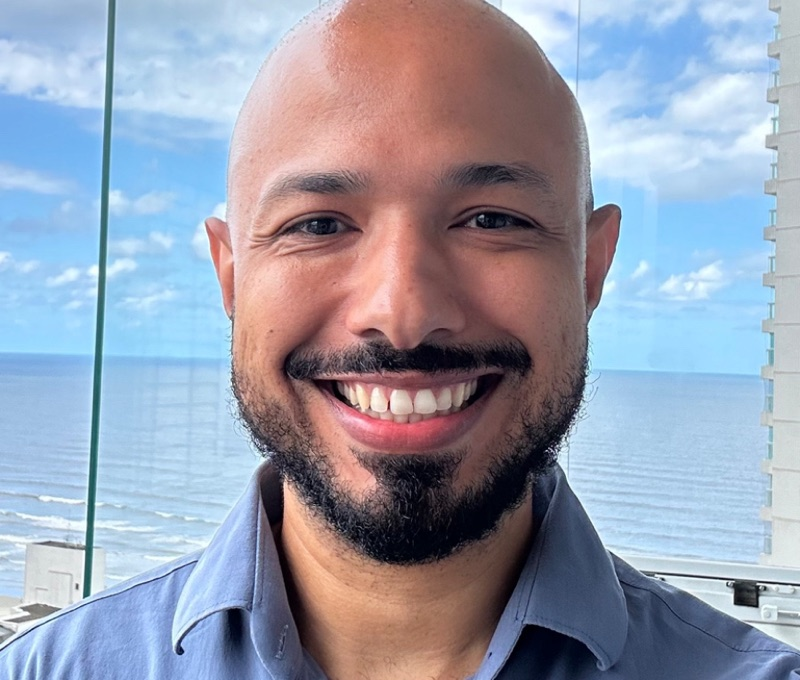
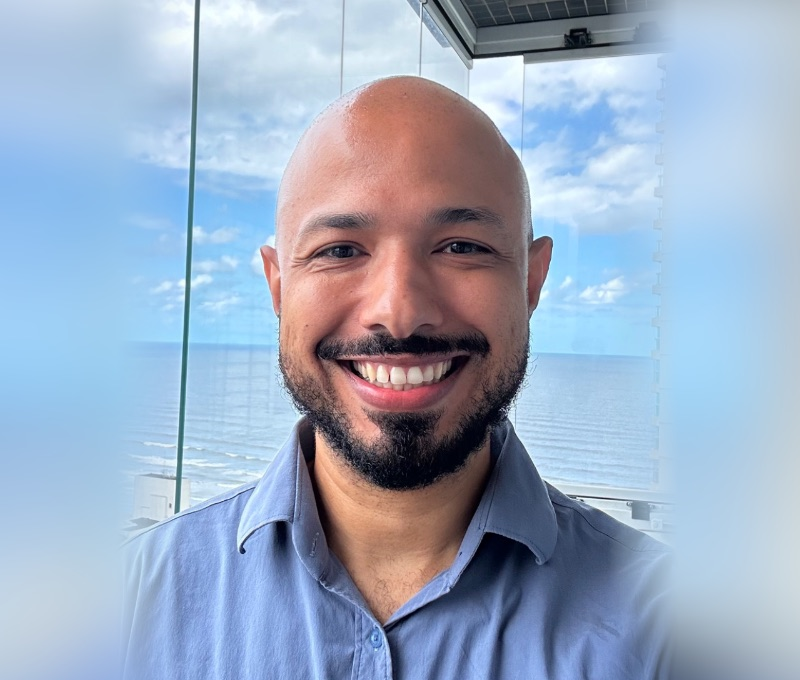
Foto do Felipe com enquadramento igual aos outros cards
- crop_faces.swift ganha a opção --estender: em fotos apertadas, completa as
  bordas com a própria foto desfocada, com degradê na junção
- Felipe recortado com o rosto no tamanho padrão

diff --git a/tools/crop_faces.swift b/tools/crop_faces.swift
@@ -1,6 +1,10 @@
 // Recorta fotos de professores com enquadramento padronizado no rosto.
 //
-//   swift tools/crop_faces.swift <pasta-de-origem> <pasta-de-destino>
+//   swift tools/crop_faces.swift <pasta-de-origem> <pasta-de-destino> [--estender] [--rosto=0.42]
+//
+// --estender: quando a foto é apertada demais para o enquadramento padrão, em vez
+// de aumentar o rosto, completa as bordas com uma versão desfocada da própria foto.
+// --rosto=N: altura do rosto em relação ao recorte (padrão 0.42).
 //
 // Para cada imagem: detecta o maior rosto (framework Vision do macOS), recorta
 // na proporção do card (4:3,4) com o rosto centralizado e ocupando FACE_RATIO
@@ -15,12 +19,15 @@ import UniformTypeIdentifiers
 import Vision
 
 let OUT_W = 800.0, OUT_H = 680.0          // mesma proporção do .teacher__photo (4 / 3.4)
-let FACE_RATIO = 0.42                       // altura do rosto em relação à altura do recorte
+var FACE_RATIO = 0.42                       // altura do rosto em relação à altura do recorte
 let FACE_CENTER_Y = 0.46                    // centro do rosto a 46% do topo (sobra espaço acima da cabeça)
 let QUALITY = 0.82
 
-let args = CommandLine.arguments
-guard args.count == 3 else { print("uso: swift crop_faces.swift <origem> <destino>"); exit(1) }
+let allArgs = CommandLine.arguments
+let EXTEND = allArgs.contains("--estender")
+if let r = allArgs.first(where: { $0.hasPrefix("--rosto=") }), let v = Double(r.dropFirst(8)) { FACE_RATIO = v }
+let args = allArgs.filter { !$0.hasPrefix("--") }
+guard args.count == 3 else { print("uso: swift crop_faces.swift <origem> <destino> [--estender] [--rosto=0.42]"); exit(1) }
 let src = URL(fileURLWithPath: args[1]), dst = URL(fileURLWithPath: args[2])
 try? FileManager.default.createDirectory(at: dst, withIntermediateDirectories: true)
 
@@ -56,28 +63,72 @@ for file in files {
 
     var ch = fh / FACE_RATIO
     var cw = ch * OUT_W / OUT_H
-    // Se o recorte ideal não cabe na foto, reduz (o rosto fica um pouco maior).
-    let scale = min(1, W / cw, H / ch)
-    cw *= scale; ch *= scale
     var x = fcx - cw / 2
     var y = fcy - ch * FACE_CENTER_Y
-    x = max(0, min(x, W - cw))
-    y = max(0, min(y, H - ch))
+    var scale = 1.0
+    if !EXTEND {
+        // Se o recorte ideal não cabe na foto, reduz (o rosto fica um pouco maior).
+        scale = min(1, W / cw, H / ch)
+        cw *= scale; ch *= scale
+        x = fcx - cw / 2
+        y = fcy - ch * FACE_CENTER_Y
+        x = max(0, min(x, W - cw))
+        y = max(0, min(y, H - ch))
+    } else {
+        // Mantém o rosto no tamanho padrão; só encosta nas bordas onde a foto permite.
+        if cw <= W { x = max(0, min(x, W - cw)) }
+        if ch <= H { y = max(0, min(y, H - ch)) }
+    }
 
-    guard let cropped = img.cropping(to: CGRect(x: x, y: y, width: cw, height: ch)) else { continue }
     let ctx = CGContext(data: nil, width: Int(OUT_W), height: Int(OUT_H), bitsPerComponent: 8, bytesPerRow: 0,
                         space: CGColorSpace(name: CGColorSpace.sRGB)!, bitmapInfo: CGImageAlphaInfo.noneSkipLast.rawValue)!
     ctx.interpolationQuality = .high
     ctx.setFillColor(CGColor(red: 1, green: 1, blue: 1, alpha: 1))   // fundo branco para PNG transparente
     ctx.fill(CGRect(x: 0, y: 0, width: OUT_W, height: OUT_H))
-    ctx.draw(cropped, in: CGRect(x: 0, y: 0, width: OUT_W, height: OUT_H))
+    let k = OUT_H / ch                                                // escala foto -> saída
+    let extended = EXTEND && (x < 0 || y < 0 || x + cw > W || y + ch > H)
+    // Foto original posicionada na saída (origem embaixo à esquerda, como no CGContext).
+    let photoRect = CGRect(x: -x * k, y: OUT_H - (-y * k + H * k), width: W * k, height: H * k)
+    if extended {
+        let canvas = CGRect(x: 0, y: 0, width: OUT_W, height: OUT_H)
+        let src = CIImage(cgImage: img)
+        // Fundo: a própria foto ampliada para cobrir o card e bem desfocada.
+        let fill = max(OUT_W / W, OUT_H / H)
+        let background = src.clampedToExtent().applyingGaussianBlur(sigma: 40)
+            .cropped(to: src.extent)
+            .transformed(by: CGAffineTransform(scaleX: fill, y: fill))
+            .transformed(by: CGAffineTransform(translationX: (OUT_W - W * fill) / 2, y: (OUT_H - H * fill) / 2))
+        let sharp = src.transformed(by: CGAffineTransform(scaleX: k, y: k))
+            .transformed(by: CGAffineTransform(translationX: photoRect.minX, y: photoRect.minY))
+        // Máscara: branca sobre a foto, com degradê de FEATHER px nas bordas que foram estendidas.
+        let FEATHER = 70.0
+        func ramp(_ from: CGPoint, _ to: CGPoint) -> CIImage {
+            CIFilter(name: "CILinearGradient", parameters: [
+                "inputPoint0": CIVector(cgPoint: from), "inputColor0": CIColor.black,
+                "inputPoint1": CIVector(cgPoint: to), "inputColor1": CIColor.white,
+            ])!.outputImage!
+        }
+        var mask = CIImage(color: .white).cropped(to: canvas)
+        var ramps: [CIImage] = []
+        if photoRect.minX > 0 { ramps.append(ramp(CGPoint(x: photoRect.minX, y: 0), CGPoint(x: photoRect.minX + FEATHER, y: 0))) }
+        if photoRect.maxX < OUT_W { ramps.append(ramp(CGPoint(x: photoRect.maxX, y: 0), CGPoint(x: photoRect.maxX - FEATHER, y: 0))) }
+        if photoRect.minY > 0 { ramps.append(ramp(CGPoint(x: 0, y: photoRect.minY), CGPoint(x: 0, y: photoRect.minY + FEATHER))) }
+        if photoRect.maxY < OUT_H { ramps.append(ramp(CGPoint(x: 0, y: photoRect.maxY), CGPoint(x: 0, y: photoRect.maxY - FEATHER))) }
+        for r in ramps { mask = r.cropped(to: canvas).applyingFilter("CIMultiplyCompositing", parameters: [kCIInputBackgroundImageKey: mask]) }
+        let composite = sharp.applyingFilter("CIBlendWithMask", parameters: [
+            kCIInputBackgroundImageKey: background, kCIInputMaskImageKey: mask,
+        ]).cropped(to: canvas)
+        ctx.draw(CIContext().createCGImage(composite, from: canvas)!, in: canvas)
+    } else {
+        ctx.draw(img, in: photoRect)
+    }
     let out = dst.appendingPathComponent("\(name).jpg")
     let dest = CGImageDestinationCreateWithURL(out as CFURL, UTType.jpeg.identifier as CFString, 1, nil)!
     CGImageDestinationAddImage(dest, ctx.makeImage()!, [kCGImageDestinationLossyCompressionQuality: QUALITY] as CFDictionary)
     CGImageDestinationFinalize(dest)
 
     let upscale = OUT_H / ch
-    let note = scale < 1 ? " · foto apertada, rosto ficou maior" : ""
+    let note = scale < 1 ? " · foto apertada, rosto ficou maior" : (extended ? " · bordas estendidas com desfoque" : "")
     let soft = upscale > 1.5 ? " · baixa resolução (ampliada \(String(format: "%.1f", upscale))x)" : ""
     print("\(name): rosto \(Int(fh))px, recorte \(Int(cw))x\(Int(ch))\(note)\(soft)")
 }

diff --git a/site/js/content.js b/site/js/content.js
@@ -31,7 +31,7 @@ window.ACADEMIA = {
       registry: "CRM-SP 221.657",
       area: "Psiquiatria",
       modules: [6],
-      photo: "img/professores/felipe-mourao.jpg",
+      photo: "img/professores/felipe-mourao.jpg?v=2",
       instagram: "doutordiamba",
       published: true,
       bio: "Pós-graduado em Psiquiatria pela Santa Casa de São Paulo e pós-graduando em Psicoterapia Assistida por Psicodélicos pelo Instituto Alma Viva. Prescreve cannabis medicinal desde 2021 e acompanha crianças, adolescentes e adultos com TEA, TDAH, epilepsia, ansiedade e insônia."

diff --git a/site/index.html b/site/index.html
@@ -8,7 +8,7 @@
 <meta name="theme-color" content="#0e1d1c">
 <link rel="stylesheet" href="../design-system/angatu-tokens.css">
 <link rel="stylesheet" href="../design-system/angatu-components.css">
-<link rel="stylesheet" href="css/academia.css?v=11">
+<link rel="stylesheet" href="css/academia.css?v=12">
 </head>
 <body>
 
@@ -285,7 +285,7 @@
   </div>
 </footer>
 
-<script src="js/content.js?v=11"></script>
-<script src="js/main.js?v=11"></script>
+<script src="js/content.js?v=12"></script>
+<script src="js/main.js?v=12"></script>
 </body>
 </html>
